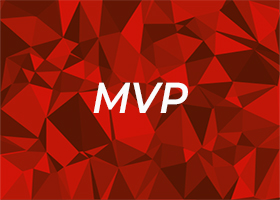
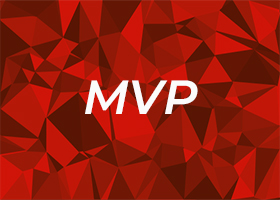
update navbar + add newCard

Changed region(s): [[0.2857, 0.39, 0.7143, 0.57]]

diff --git a/src/components/navbar/Navbar.js b/src/components/navbar/Navbar.js
@@ -1,4 +1,4 @@
-import React from "react";
+import React, { useState } from "react";
 import { Link, NavLink, useLocation } from "react-router-dom";
 import logoMain from "../../assets/ressources/logo_awake/SVG/logo5.svg";
 import logoMenuBurger from "../../assets/ressources/menu.svg";
@@ -8,18 +8,10 @@ const Navbar = () => {
   // Target for switch bg navbar if we're at homepage
   const location = useLocation();
 
-  // Toggle navbar burgermenu for mobile
-  const toggleNav = () => {
-    const menuEltToggle = document.querySelectorAll(".toggle-menu");
-    menuEltToggle.forEach((el) => el.classList.toggle("hidden"));
-  };
+  const [toggle, setToggle] = useState(false);
 
-  // It's for mobile people when an user click on navbar links then close this one
-  const closeNav = () => {
-    const menuEltToggle = document.querySelectorAll(".toggle-menu");
-    if (menuEltToggle.classList !== "hidden") {
-      menuEltToggle.forEach((el) => el.classList.add("hidden"));
-    }
+  const showNav = () => {
+    setToggle(!toggle);
   };
 
   return (
@@ -48,17 +40,21 @@ const Navbar = () => {
 
           <button
             className="inline-flex items-center justify-center rounded-md bg-white p-2 ring-1 ring-black ring-opacity-20 md:hidden"
-            onClick={toggleNav}
+            onClick={showNav}
           >
             <img src={logoMenuBurger} alt="icone burger" className="h-6 w-6" />
           </button>
         </div>
 
         {/* <!-- List link navbar --> */}
-        <ul className="toggle-menu flex hidden flex-col bg-[#232323] px-1 pt-6 md:flex md:w-auto md:flex-row md:items-center md:justify-center md:space-x-5 md:bg-transparent md:pt-0 lg:space-x-8">
+        <ul
+          className={`${
+            toggle ? " flex" : " hidden"
+          } flex-col bg-[#232323] px-1 pt-6 md:flex md:w-auto md:flex-row md:items-center md:justify-center md:space-x-5 md:bg-transparent md:pt-0 lg:space-x-8`}
+        >
           <li className="group border-t border-gray-200 py-2 text-center md:border-0">
             <NavLink
-              onClick={closeNav}
+              onClick={showNav}
               to="/"
               className="text-lg md:text-base lg:text-lg font-medium text-white group-hover:text-sky-500"
             >
@@ -73,7 +69,7 @@ const Navbar = () => {
           </li>
           <li className="group border-t border-gray-200 py-2 text-center md:border-0">
             <NavLink
-              onClick={closeNav}
+              onClick={showNav}
               to="/ranks"
               className="text-lg md:text-base lg:text-lg font-medium text-white group-hover:text-sky-500"
             >
@@ -94,7 +90,11 @@ const Navbar = () => {
           </li>
         </ul>
         {/* <!-- Btn Link Account --> */}
-        <div className="toggle-menu mt-6 flex hidden items-center justify-center md:mt-0 md:flex">
+        <div
+          className={`${
+            toggle ? " flex" : " hidden"
+          } mt-6 items-center justify-center md:mt-0 md:flex`}
+        >
           <Link
             to="/"
             className="px-[12px] py-[6px] rounded-md border bg-white text-center font-medium text-sky-700 shadow-md hover:bg-gray-300"

diff --git a/src/components/imageBackground/ImageBackground.js b/src/components/imageBackground/ImageBackground.js
@@ -4,7 +4,7 @@ export default function ImageBackground() {
   return (
     <>
       <div className="absolute top-0 left-0 h-screen w-screen z-[-100] bg-main-bg bg-no-repeat bg-center bg-cover"></div>
-      <div id="bg-overlay" className="fixed top-0 left-0 w-screen h-screen z-[-99] bg-[rgba(0,0,0,0.15)]"></div>
+      <div id="bg-overlay" className="fixed top-0 left-0 w-screen h-screen z-[-99] bg-[rgba(0,0,0,0.2)]"></div>
     </>
   );
 }
